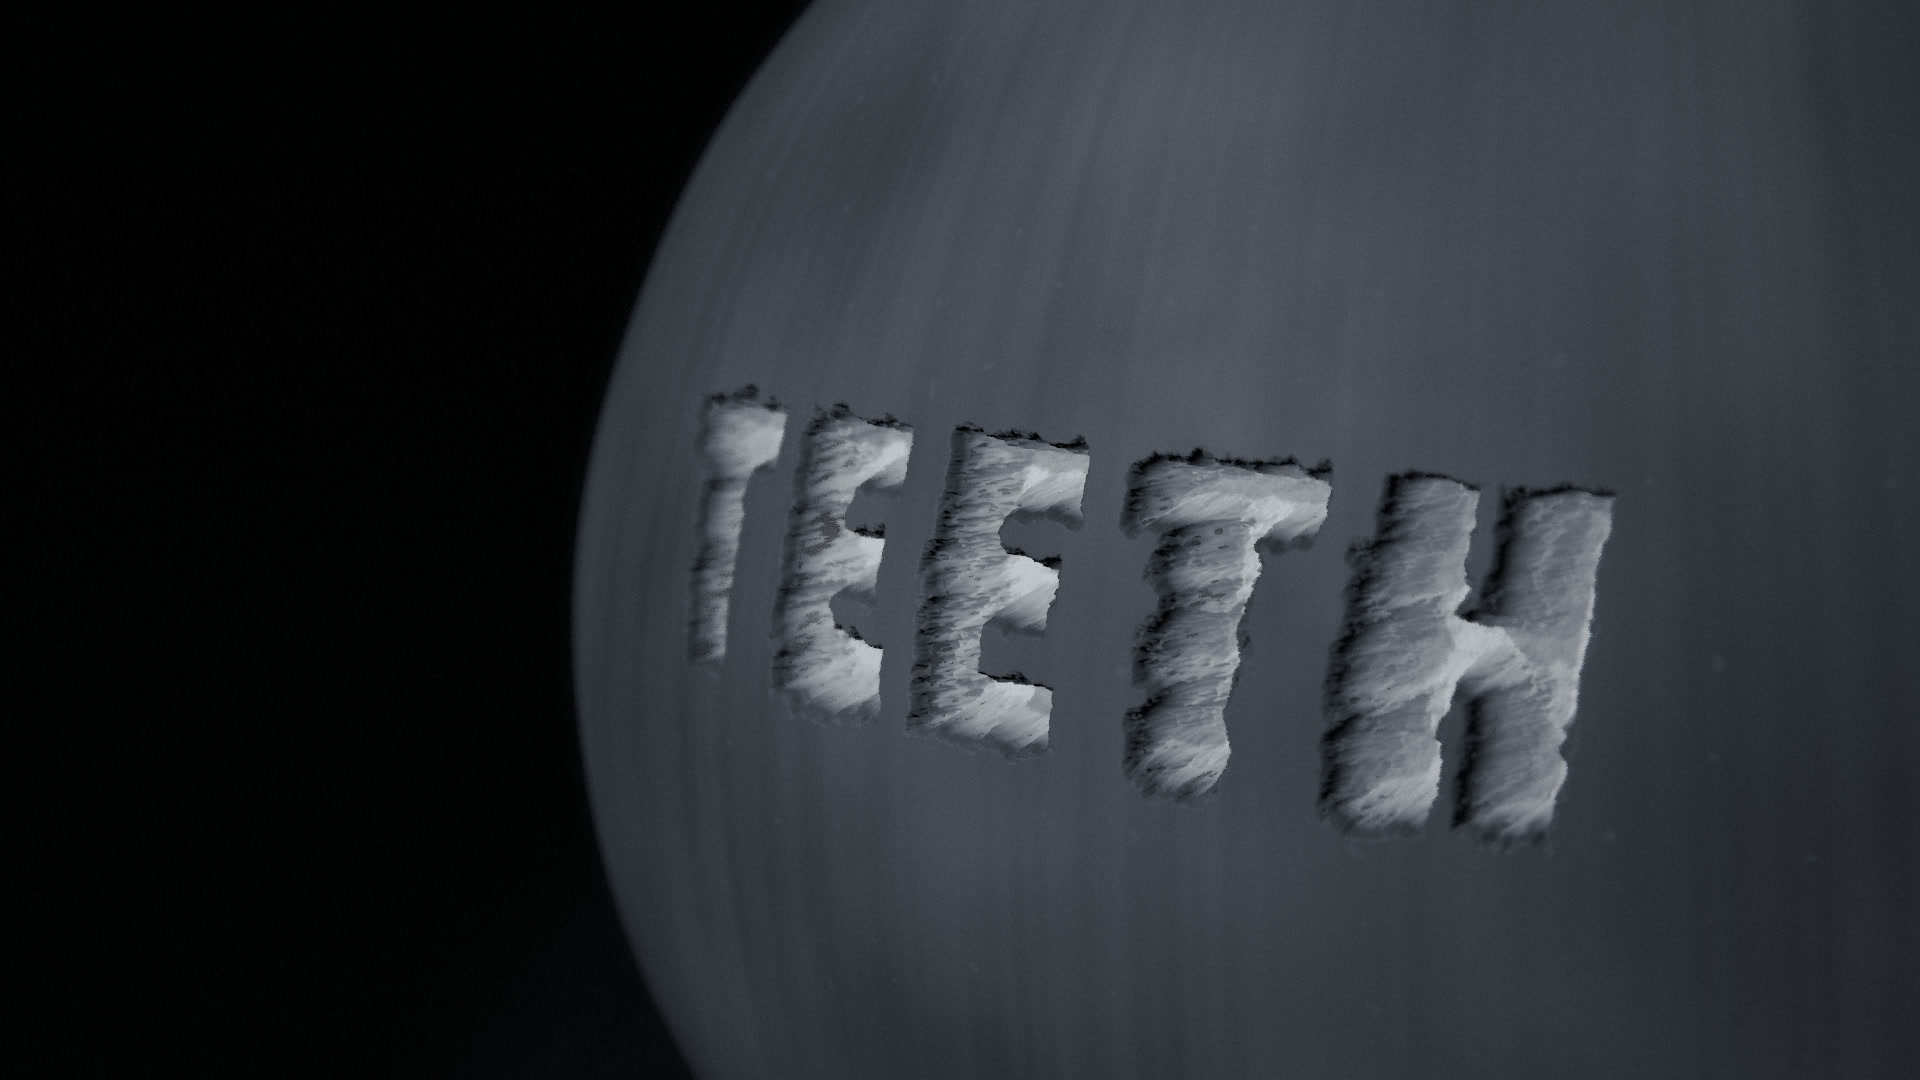
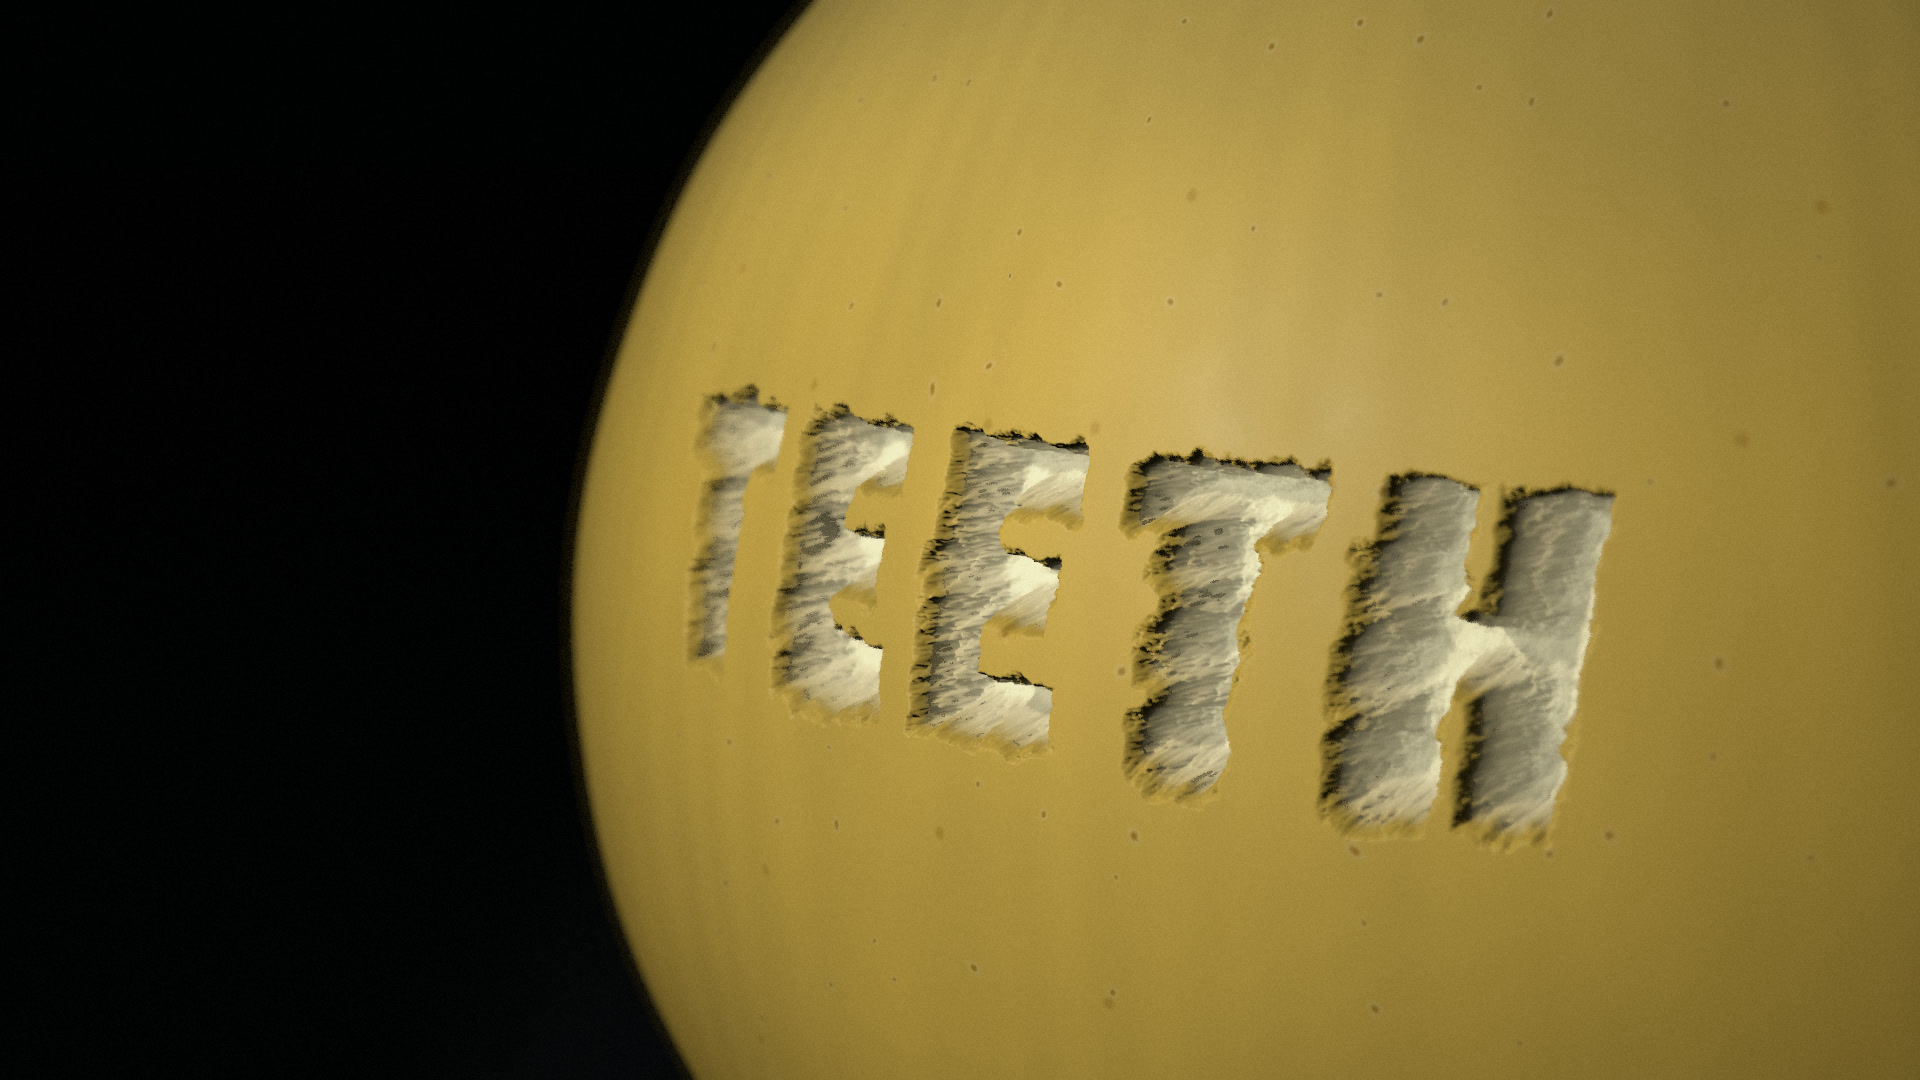
Teeth v2 gate 2: golden apple (plate 5 pass 5), stills set refreshed with T.F. full stops

diff --git a/app/src/teeth2/scenes/scale-glsl.ts b/app/src/teeth2/scenes/scale-glsl.ts
@@ -1,7 +1,7 @@
-// `scale` shaders: the ray-marched bite-mark photograph, shot as a BLACK-AND-WHITE forensic photograph (cold
-// silver/film greys; the only colour in the plate is SWEET's wax when it is bitten). An apple stands stem up (a leaf
-// still on the stem) on film-black velvet, ONE BITE taken out of its flank: a crescent scooped through the skin into the
-// white flesh, its rim scalloped by his incisal edges (the chip on #8 a notch in the scallop), his incisors' grooves
+// `scale` shaders: the ray-marched bite-mark photograph, in colour within palette 2A. A golden apple in dental-stone
+// yellow (shades of stone: russet, greener by the stem, a faint desaturated wax blush) stands stem up (a cold grey-green
+// leaf on the stem) on film-black velvet, ONE BITE taken out of its flank: a crescent scooped through the skin into the
+// pale cream flesh, its rim scalloped by his incisal edges (the chip on #8 a notch in the scallop), his incisors' grooves
 // dragged down the scoop's upper wall, the lowers' short scrapes on its lower wall. An ABFO No. 2 scale stands on the
 // cloth beside the apple. The hero words are bitten OUT of the apple's other flank: letter-shaped cavities in the flesh.
 // One hard flash per photograph; a depth-of-field gather. Units: mm, Y up, the cloth at Y = 0.
@@ -46,6 +46,20 @@ const float SCZ = ${f(LAY.SCZ)}, SCY = ${f(LAY.SCY)};
 const vec4 PATCHR = vec4(${f(PATCH.x0)}, ${f(PATCH.y0)}, ${f(1 / (PATCH.x1 - PATCH.x0))}, ${f(1 / (PATCH.y1 - PATCH.y0))});
 const float SL = ${f(LAY.SL)}, SWD = ${f(LAY.SWD)}, ST = ${f(LAY.ST)};
 
+float lumY(vec3 c) { return dot(c, vec3(0.2126, 0.7152, 0.0722)); }
+/** A mix of two palette tokens taken in display (sRGB-like) space: a shade between them as the eye sees it. */
+vec3 gmix(vec3 a, vec3 b, float t) { return pow(mix(pow(a, vec3(0.4545)), pow(b, vec3(0.4545)), t), vec3(2.2)); }
+// the golden apple's shades of the palette (2A): tints and shades of stone, with silver, halide, lightbox and wax
+#define STONE_G gmix(T_STONE, T_SILVER, 0.3)
+#define RUSS (T_STONE * T_STONE / 0.807 * 0.62)
+#define BLUSH gmix(T_STONE, gmix(T_WAX, T_HALIDE, 0.45), 0.6)
+#define CREAM gmix(T_STONE, T_LIGHTBOX, 0.64)
+#define OXID gmix(RUSS, T_SILVER, 0.3)
+#define LEAFC gmix(T_SILVER, T_STONE, 0.22)
+// (STONE_G: stone pulled toward silver, greener by the stem; RUSS: a darker, warmer shade of stone; BLUSH: the wax,
+// desaturated, faint; CREAM: the flesh, stone tinted toward lightbox; OXID: the cut's faint browning; LEAFC: a cold
+// green-grey between silver and stone)
+
 const float M_SKIN = 1.0, M_CLOTH = 2.0, M_SCALE = 3.0, M_BLOCK = 4.0, M_STEM = 5.0, M_LEAF = 6.0;
 
 vec2 opU(vec2 a, vec2 b) { return a.x < b.x ? a : b; }
@@ -76,10 +90,15 @@ float teethCut(float X, bool upper) {
   for (int i = 0; i < 6; i++) {
     vec4 t = upper ? upT[i] : loT[i];
     float u = (X - t.x) / max(t.y - t.x, 0.1);
-    if (u > -0.15 && u < 1.15) {
-      float sc = sat(1.0 - pow(abs(2.0 * u - 1.0) / 1.1, 2.0));
-      // #8: its mesial third is the chip, a small unbitten wedge between #9's scallop and #8's
-      float facet = t.w == 8.0 ? smoothstep(0.22, 0.48, u) : 1.0;
+    // a canine's cusp tip is a narrow span: its pit is drawn at least ~4 mm wide and shallower (a round dimple, never
+    // a slot or a fang)
+    float w = t.y - t.x, hw = max(0.5 * w, 2.0);
+    float uc = (X - 0.5 * (t.x + t.y)) / hw;
+    if (abs(uc) < 1.15) {
+      float sc = sat(1.0 - pow(abs(uc) / 1.1, 2.0)) * mix(0.5, 1.0, smoothstep(2.0, 4.5, w));
+      // #8: its mesial half is the chip: the corner is missing, so it bit a shallow diagonal shelf there, then a crisp step
+      // down to the full scallop (an unbitten wedge between #9 and #8 that reads as a notch in the rim)
+      float facet = t.w == 8.0 ? mix(0.12 + 0.4 * sat(u / 0.46), 1.0, smoothstep(0.46, 0.53, u)) : 1.0;
       g = max(g, sc * mix(0.75, 1.0, t.z) * facet);
     }
   }
@@ -99,13 +118,13 @@ float scoop(vec3 p) {
   // the incisors' edges: deeper scallops along the rim, their grooves dragged down the upper wall into the scoop; the
   // lowers' shorter scrapes on the lower wall
   // (only in a band at each rim: the teeth cut the rim and drag a few millimetres down the wall, not across the floor)
-  float up = smoothstep(5.0, 13.0, Y), lo = smoothstep(-6.0, -14.0, Y);
+  float up = smoothstep(3.0, 11.0, Y), lo = smoothstep(-6.0, -14.0, Y);
   // the upper incisors cut the rim (each its own scallop) and drag down the wall; the lowers mark the far wall faintly
   // (shallow, wide arcs meeting in small points of skin: a bitten edge, never fang shapes)
-  if (up > 0.0) s -= 1.4 * teethCut(X, true) * up;
+  if (up > 0.0) s -= 2.3 * teethCut(X, true) * up;
   if (lo > 0.0) s -= 0.4 * teethCut(X, false) * lo;
   // tooth drag: fine grooves running down the flesh from the upper rim (perpendicular to it), fading toward the floor
-  s += (0.035 + 0.05 * up) * snoise(vec2(X * 1.6, Y * 0.16)) + 0.02 * snoise(vec3(p * 2.0));
+  s += (0.02 + 0.03 * up) * snoise(vec2(X * 1.6, Y * 0.16)) + 0.02 * snoise(vec3(p * 2.0));
   return s * 0.8;
 }
 
@@ -330,25 +349,43 @@ vec4 shade(vec3 ro, vec3 rd, float tap) {
   float fleshK = 0.0, waxK = 0.0; vec3 fleshC = vec3(0.0);
   if (m == M_SKIN) {
     vec3 q = toApple(P);
-    float hN = q.y / AH, phi = sPhi(q);
-    // the skin (in the photograph's greys): a dark blush, broken by fine lighter striations stem to calyx, the
-    // lighter ground toward the stem; lenticels as pale speckles; a waxy coat that takes the flash
-    float stri = snoise(vec2(phi * 18.0, hN * 0.8)) * 0.6 + snoise(vec2(phi * 48.0, hN * 1.2)) * 0.4;
-    float blush = sat(0.75 + 0.45 * fbm(vec2(phi * 1.6, hN * 1.8) + 4.0, 3) - 0.6 * smoothstep(0.55, 0.95, hN));
-    float lum = mix(0.06, 0.026, blush);
-    lum *= 1.0 + 0.18 * stri * blush + 0.12 * snoise(vec2(phi * 3.0, hN * 2.5));
-    alb = vec3(lum);
+    float hN = q.y / AH, phi = sPhi(q), cr = length(q.xz);
+    float az = atan(q.x, q.z);
+    // the skin: a golden apple in dental-stone yellow (a Golden Delicious): the stone ground, greener toward the stem
+    // (stone pulled toward silver), a soft mottle, russet freckles and lenticels (darker, warmer shades of stone), one
+    // faint wax blush on the cheek away from the bite and the word; a thin waxy coat that takes the flash
+    float mot = fbm(vec2(phi * 1.6, hN * 1.8) + 4.0, 3);
+    float k = 0.37 * (1.0 + 0.09 * mot + 0.04 * snoise(vec2(phi * 16.0, hN * 1.4)));
+    vec3 base = mix(T_STONE, T_STONE * T_STONE / 0.807, 0.12 + 0.14 * smoothstep(0.2, -0.6, hN));
+    base = mix(base, STONE_G, sat(smoothstep(0.3, 0.92, hN) * 0.75 + 0.1 * sat(0.4 - mot) + 0.08 * smoothstep(-0.4, -0.95, hN)));
+    float dAz = mod(az - 2.0 + PI, 2.0 * PI) - PI;
+    float cheek = exp(-dAz * dAz / 0.55) * smoothstep(-0.75, -0.1, hN) * smoothstep(0.75, 0.15, hN) * sat(0.6 + 0.8 * mot);
+    base = mix(base, BLUSH, 0.32 * cheek);
+    alb = base * k;
+    // freckles: sparse russet dots (~4 mm cells)
+    vec2 fc = vec2(phi * AR, q.y) / 4.3;
+    vec2 fi = floor(fc), ff = fract(fc) - 0.5 - (hash22(fi + 21.0) - 0.5) * 0.6;
+    float frk = (1.0 - smoothstep(0.015, 0.05, length(ff))) * step(0.7, hash12(fi + 9.0));
+    alb = mix(alb, RUSS * k * 0.9, frk * 0.4);
+    // lenticels: small russet points with a paler ring (~1.9 mm cells)
     vec2 sc = vec2(phi * AR, q.y) / 1.9;
     vec2 ci = floor(sc), cf = fract(sc) - 0.5;
     vec2 jo = (hash22(ci) - 0.5) * 0.6;
     float ang = hash12(ci + 11.0) * 6.2832;
     vec2 dl = mat2(cos(ang), -sin(ang), sin(ang), cos(ang)) * (cf - jo);
-    dl.x *= 0.45 + 0.4 * hash12(ci + 5.0);
-    float lr = 0.035 + 0.05 * hash12(ci + 7.0);
-    float len = 1.0 - smoothstep(lr * 0.4, lr, length(dl));
-    float dens = mix(0.7, 0.4, smoothstep(-0.2, -0.85, hN));
-    alb = mix(alb, vec3(0.046), len * 0.55 * step(dens, hash12(ci + 3.0)));
-    rough = 0.6 + 0.05 * snoise(P * 0.4); f0 = 0.025; wrap = 0.2; coat = 1.0;
+    dl.x *= 0.55 + 0.4 * hash12(ci + 5.0);
+    float lr = 0.03 + 0.035 * hash12(ci + 7.0);
+    float on = step(mix(0.7, 0.55, smoothstep(-0.2, -0.85, hN)), hash12(ci + 3.0));
+    float len = (1.0 - smoothstep(lr * 0.35, lr, length(dl))) * on;
+    float ring = sat((1.0 - smoothstep(lr, lr * 1.9, length(dl))) * on - len);
+    alb = mix(alb, CREAM * k * 1.1, ring * 0.12);
+    alb = mix(alb, RUSS * k * 0.75, len * 0.7);
+    rough = 0.5 + 0.05 * snoise(P * 0.4); f0 = 0.03; wrap = 0.2; coat = 0.85;
+    // the stem well: russet netting in the cavity (rougher, warmer, darker)
+    float well = smoothstep(0.72, 0.9, hN) * smoothstep(12.0, 4.0, cr);
+    float net = well * smoothstep(-0.15, 0.35, fbm(q.xz * 0.55 + 2.0, 4) + 0.35 * well);
+    alb = mix(alb, RUSS * k * (0.75 + 0.3 * snoise(q * 1.3)), net * 0.85);
+    rough = mix(rough, 0.85, net); coat *= 1.0 - net;
     // the flesh: inside the bite (below the original skin) and in the word's cavities
     float inBite = smoothstep(-0.05, -0.35, body0) * step(cut, 1.0);
     float inWord = smoothstep(0.1, -0.25, ws) * wordAmt;
@@ -356,45 +393,43 @@ vec4 shade(vec3 ro, vec3 rd, float tap) {
     if (flesh > 0.0) {
       float gr = 0.6 * snoise(P * 18.0) + 0.4 * snoise(P * 40.0);
       float wall = sat(0.5 - 0.5 * gr) * 0.5;
-      // white, a little translucent; browning (very desaturated) a millimetre or so in from the cut skin
-      float brown = inBite * (1.0 - smoothstep(-0.4, -2.2, body0)) + inWord * (1.0 - smoothstep(-0.05, -0.6, ws));
-      vec3 cream = vec3(0.27) * (1.0 - 0.2 * wall);
-      vec3 flc = mix(cream, mix(T_STONE, T_SILVER, 0.55) * 0.5, sat(brown) * 0.55);
-      // SWEET (the tender word): its flesh blushes wax, the one colour in the photograph
+      // pale cream (stone toward lightbox), a little translucent; faint oxidation a millimetre in from the cut skin
+      float brown = inBite * (1.0 - smoothstep(-0.4, -2.4, body0)) + inWord * (1.0 - smoothstep(-0.05, -0.6, ws));
+      vec3 cream = CREAM * 0.5 * (1.0 - 0.18 * wall);
+      vec3 flc = mix(cream, OXID * 0.5, sat(brown) * 0.4);
+      // SWEET (the tender word): its bitten flesh takes the wax pink
       waxK = inWord * wordWax;
       flc = mix(flc, T_WAX * 0.78, waxK);
       alb = mix(alb, flc, flesh);
-      rough = mix(rough, 0.55 + 0.15 * wall, flesh); f0 = mix(f0, 0.025, flesh); wrap = mix(wrap, 0.5, flesh); coat *= 1.0 - flesh;
+      rough = mix(rough, 0.55 + 0.15 * wall, flesh); f0 = mix(f0, 0.025, flesh); wrap = mix(wrap, 0.3, flesh); coat *= 1.0 - flesh;
       fleshK = flesh; fleshC = flc;
     }
-    float cr = length(q.xz);
     if (hN < -0.75) {
       float star = smoothstep(4.0, 1.0, cr + 1.1 * cos(5.0 * phi));
-      alb = mix(alb, vec3(0.02), star);
+      alb = mix(alb, RUSS * 0.06, star);
       rough = mix(rough, 0.85, star); coat *= 1.0 - star;
     }
-    // the stem well: the skin rougher, lighter (russet)
-    alb = mix(alb, vec3(0.16) * (0.8 + 0.4 * snoise(q * 0.9)), smoothstep(0.78, 0.92, hN) * smoothstep(9.0, 3.0, cr) * (1.0 - fleshK));
   } else if (m == M_STEM) {
     vec3 q = toApple(P);
-    alb = vec3(0.06) * (0.75 + 0.35 * snoise(vec3(q.x * 3.0, q.y * 0.6, q.z * 3.0)));
-    alb = mix(alb, vec3(0.14), smoothstep(42.0, 45.0, q.y));
+    alb = mix(T_STONE * 0.09, T_FILM2, 0.3) * (0.75 + 0.35 * snoise(vec3(q.x * 3.0, q.y * 0.6, q.z * 3.0)));
+    alb = mix(alb, gmix(T_SILVER, T_STONE, 0.4) * 0.3, smoothstep(42.0, 45.0, q.y));
     rough = 0.6;
   } else if (m == M_LEAF) {
-    // a leaf: darker than the skin, a waxy upper face, its midrib and veins lighter
+    // a leaf: a cold green-grey (between silver and stone), darker than the skin, a waxy upper face, its midrib and
+    // veins lighter
     vec3 l = leafL(P);
     float x = l.x - 6.0;
     float rib = 1.0 - smoothstep(0.25, 0.6, abs(l.y));
     float vu = abs(l.y) * 1.4 - x * 0.55;
     float vein = (1.0 - smoothstep(0.08, 0.3, abs(fract(vu / 5.0 + 0.5) - 0.5) * 5.0)) * smoothstep(1.0, 3.0, abs(l.y));
-    alb = vec3(0.045) * (0.85 + 0.25 * snoise(l.xy * 0.4));
-    alb = mix(alb, vec3(0.12), max(rib, vein * 0.55));
+    alb = LEAFC * 0.2 * (0.85 + 0.25 * snoise(l.xy * 0.4));
+    alb = mix(alb, LEAFC * 0.42, max(rib, vein * 0.55));
     rough = 0.32; f0 = 0.04; coat = 0.5; wrap = 0.3;
     if (dot(N, V) < 0.0) N = -N;
   } else if (m == M_CLOTH) {
     float fib = snoise(P.xz * 3.5) * 0.5 + snoise(P.xz * 0.9) * 0.5;
     float nap = snoise(P.xz * 1.6 + 3.0) * 0.5 + snoise(P.xz * 6.0) * 0.3 + snoise(P.xz * 0.25) * 0.4;
-    alb = vec3(0.011 * (1.0 + 0.35 * fib + 0.3 * nap)); rough = 1.0; f0 = 0.0; sheen = 0.16 + 0.06 * nap;
+    alb = mix(vec3(1.0), T_FILM / lumY(T_FILM), 0.4) * 0.008 * (1.0 + 0.35 * fib + 0.3 * nap); rough = 1.0; f0 = 0.0; sheen = 0.16 + 0.06 * nap;
   } else if (m == M_SCALE) {
     alb = T_LIGHTBOX * 0.66; rough = 0.55; f0 = 0.04;
     vec3 s = scaleL(P);
@@ -426,15 +461,10 @@ vec4 shade(vec3 ro, vec3 rd, float tap) {
   }
   col += T_SILVER * sheen * pow(1.0 - NoV, 4.0) * fall * (0.3 + 0.7 * sh) * sat(NoL + 0.6);
   // apple flesh is translucent: the cut carries some of the light that reaches the fruit around it
-  if (fleshK > 0.0) col += fleshK * fleshC * T_LIGHTBOX * fall * 0.25 * sat(dot(normalize(P - AC), L) + 0.4);
+  // (in the narrow letter cavities the light scattered through the flesh keeps them cream, not grey)
+  if (fleshK > 0.0) col += fleshK * fleshC * T_LIGHTBOX * fall * (0.16 + 0.22 * step(ws, 0.0)) * sat(dot(normalize(P - AC), L) + 0.4);
   col += alb * T_LIGHTBOX * fillI * sat(0.35 + 0.65 * dot(N, fillDir)) * mix(0.3, 1.0, ao);
   col += alb * T_FILM2 * 0.4 * ao;
-  // the photograph is black and white, graded cold (silver toward film blue-black); only SWEET's wax keeps its colour
-  float y = dot(col, vec3(0.2126, 0.7152, 0.0722));
-  vec3 coldD = mix(vec3(1.0), T_FILM2 / max(dot(T_FILM2, vec3(0.2126, 0.7152, 0.0722)), 1e-4), 0.35);
-  vec3 coldL = mix(vec3(1.0), T_HALIDE / dot(T_HALIDE, vec3(0.2126, 0.7152, 0.0722)), 0.6);
-  vec3 cold = mix(coldD, coldL, sat(y * 3.0));
-  col = mix(y * cold, col, waxK);
   float depth = dot(P - ro, camF);
   col = min(col, vec3(0.95));
   return vec4(col, depth);

diff --git a/app/src/teeth2/scenes/scale.ts b/app/src/teeth2/scenes/scale.ts
@@ -1,12 +1,13 @@
 // Plate 5 `scale` — chorus 1, first half (48.73 – 62.54), docs/TEETH2.md. Bite-mark photography and the first stomp,
-// shot as a BLACK-AND-WHITE forensic photograph (cold silver and film greys, a hard flash, true blacks; the only
-// colour in the plate is SWEET's wax when it is bitten). An apple stands stem up, one leaf on the stem, on film-black
-// velvet, ONE BITE taken out of its flank (a crescent scooped into the white flesh, its rim scalloped by his incisal
+// shot in colour within palette 2A (a hard flash, true blacks). A GOLDEN apple in dental-stone yellow (a Golden
+// Delicious: russet freckles and lenticels, greener toward the stem, a faint wax blush; the bite and the cast he pours
+// in chorus 2 share the colour) stands stem up, one cold grey-green leaf on the stem, on film-black velvet, ONE BITE
+// taken out of its flank (a crescent scooped into the pale cream flesh, its rim scalloped by his incisal
 // edges with #8's chip a notch in the scallop, his incisors' grooves dragged down the scoop's wall, the lowers' short
 // scrapes below; teeth.ts biteMark(HIS)). An ABFO No. 2 scale stands on the cloth beside it, facing the copy camera,
 // its sticker the plate's one readable label (08-32 · EXHIBIT 4). The stomp is the shutter: every beat a flash, every
 // flash a new photograph, a new camera each time (the exhibit at 3/4, the bite in profile, macro on the bitten rim, the
-// ruler's edge, the scale's corner, the chip), never framing the bite frontally (two opposing arcs read as a mouth).
+// ruler's edge, the scale's corner, the chip). Bitten flesh is cream (SWEET's takes the wax pink); nothing blooms.
 //
 // The hero words are bitten OUT of the apple's other flank: letter-shaped cavities into the flesh, Archivo condensed
 // black built from tooth-width scallop bites, the letter over #8's position chipped; a 3/4 macro so the skin curves

diff --git a/docs/TEETH2-HANDOFF.md b/docs/TEETH2-HANDOFF.md
@@ -5,7 +5,7 @@ Read this first in every new session ("Continue Teeth v2 from the handoff"), the
 ## Where we are
 
 - **Gate 1 (treatment and plate list): approved by the client 2026-11-17.** `docs/TEETH2.md` draft 4 (two gauntlet rounds on paper, then the client's taste-call answers). PR #9 holds it; the client merges.
-- **Gate 2 (the stills): in review by the client.** The set is in `docs/gate2/` (JPGs; `0-contact-sheet.jpg` first), rendered from the committed scenes after four gauntlet rounds (see the ledger). No plate is built past its still until the client approves. Open items the client was told about: the apple's bite rim and #8 notch read only up close in the wide; the turned-out cast's front teeth still show slight gaps; the chip at the lock is small at full frame; every plate runs 35–200 ms per frame (over the 25 ms target: a render-time cost, not a look problem). Client calls pending: lyric colour treatment A/B/C, cold vs warm lamp, the B&W apple (a lead ruling), how literal the bitten letters are, the signature mark.
+- **Gate 2 (the stills): complete, awaiting the client's approval (2026-11-19).** The set is in `docs/gate2/` (JPGs; `0-contact-sheet.jpg` first), rendered from the committed scenes after four gauntlet rounds and a fifth pass on the apple (now golden, per the client's calls, recorded at the end of the treatment). Known items carried into gate 3: the apple macros read a little smooth up close, and #8's notch in the bite reads only at zoom; the turned-out cast's front teeth show slight gaps; the chip at the lock is small at full frame; every plate runs 35–200 ms per frame (a render-time cost, not a look problem).
 - **Next after approval: gate 3, every plate built and shown as a contact sheet.** Code is in `app/src/teeth2/` (kit: `palette.ts`, `teeth.ts`, `monogram.ts`; plates: `scenes/<id>.ts`; boards: `?board=typesheet`, `?board=kittest`). The builder brief is `docs/TEETH2-BUILDERS.md`.
 - Render on this machine: `source <scratchpad>/env.sh` (or put the WinGet bun and ffmpeg folders on PATH), then `cd app && bun scripts/render.ts stills --song teeth --t <t> --only <id> --url http://localhost:5193 --out <absolute fresh folder>`.
 - Later gates: 3 contact sheet of every plate, 4 1080p rough cut, 5 4K60 final (rendered overnight in segments).
